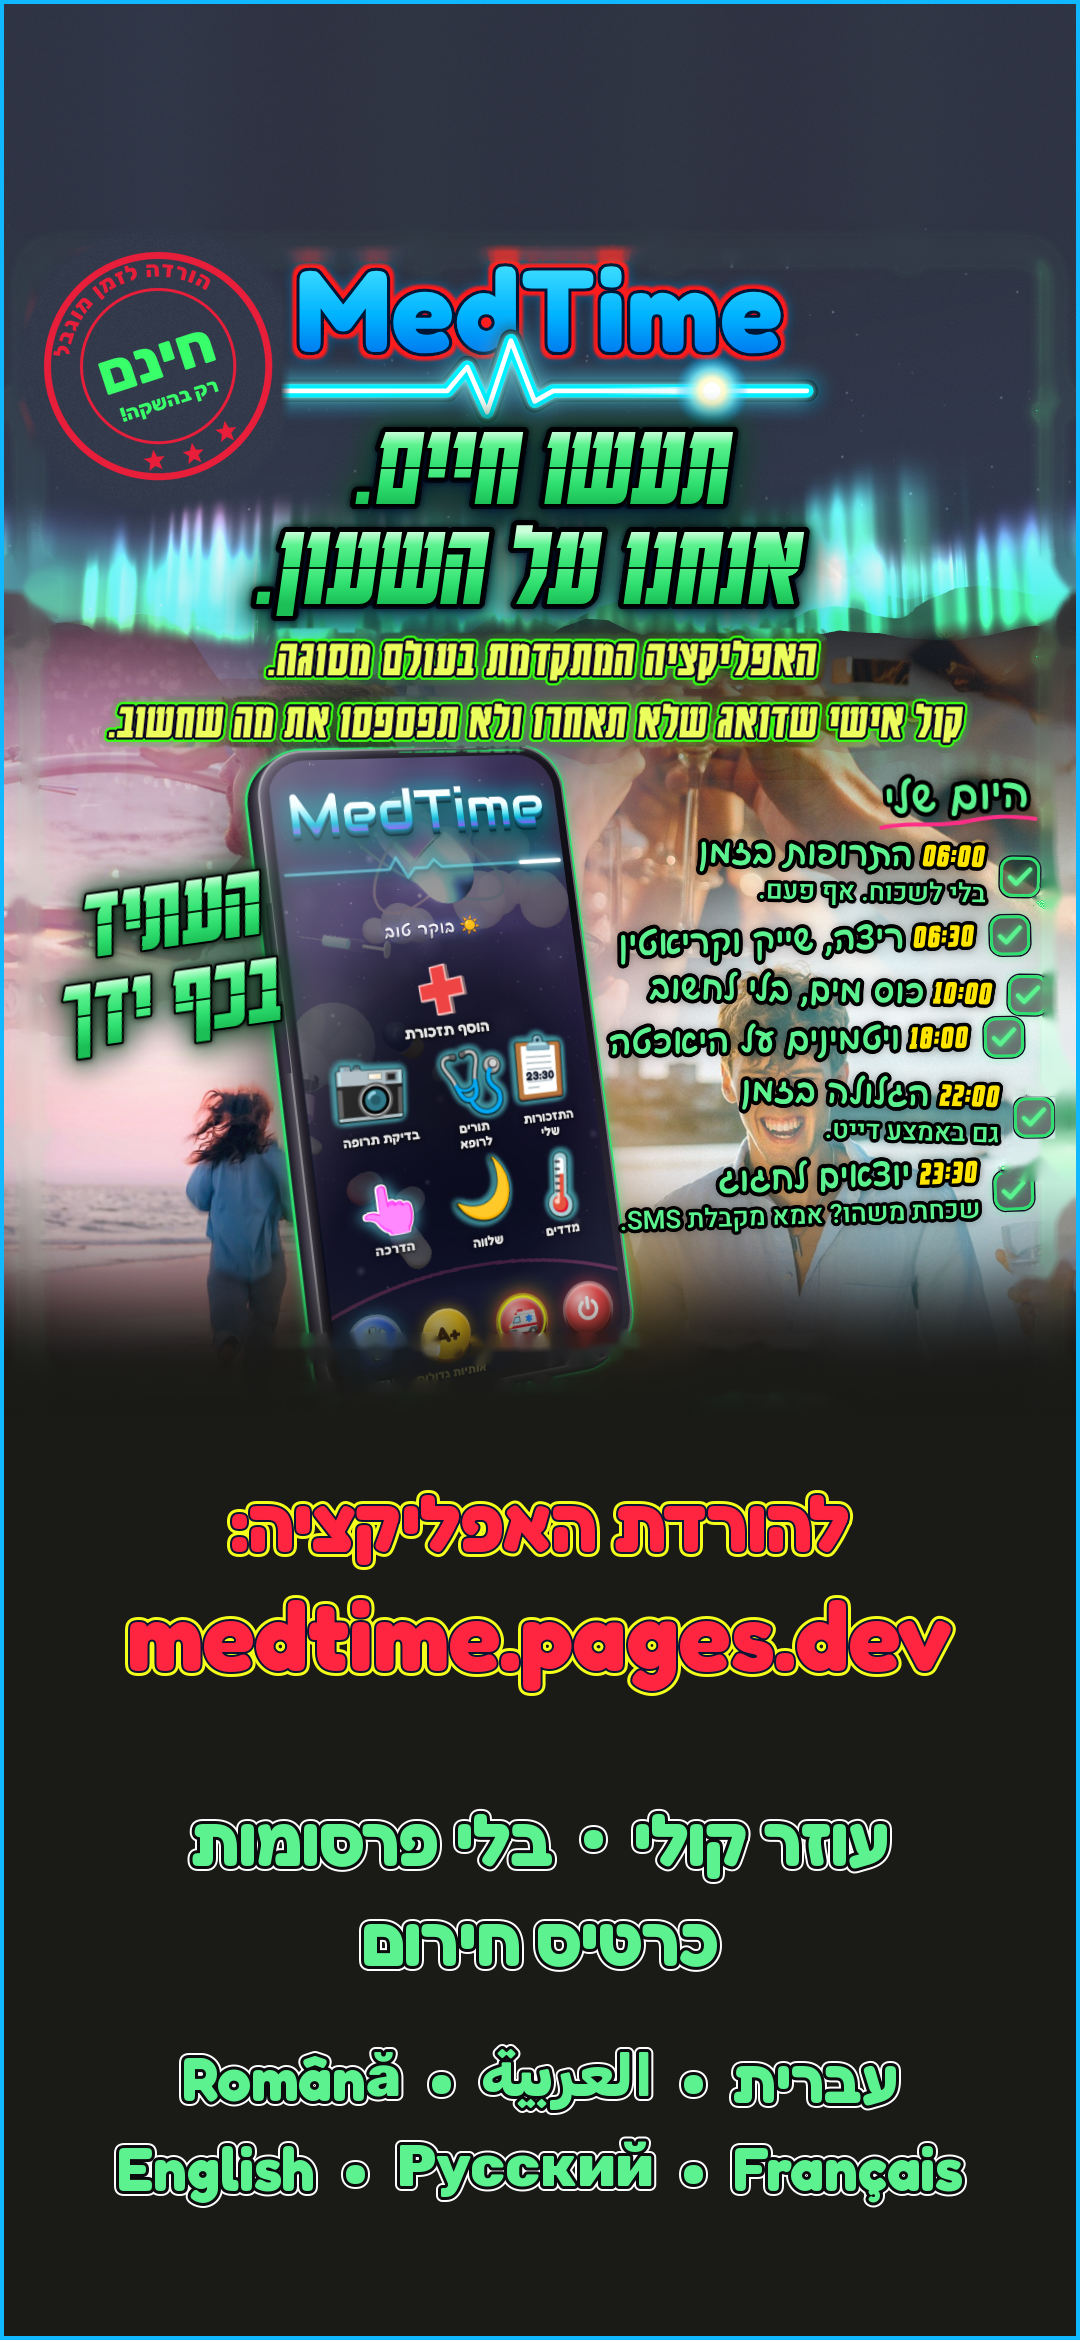
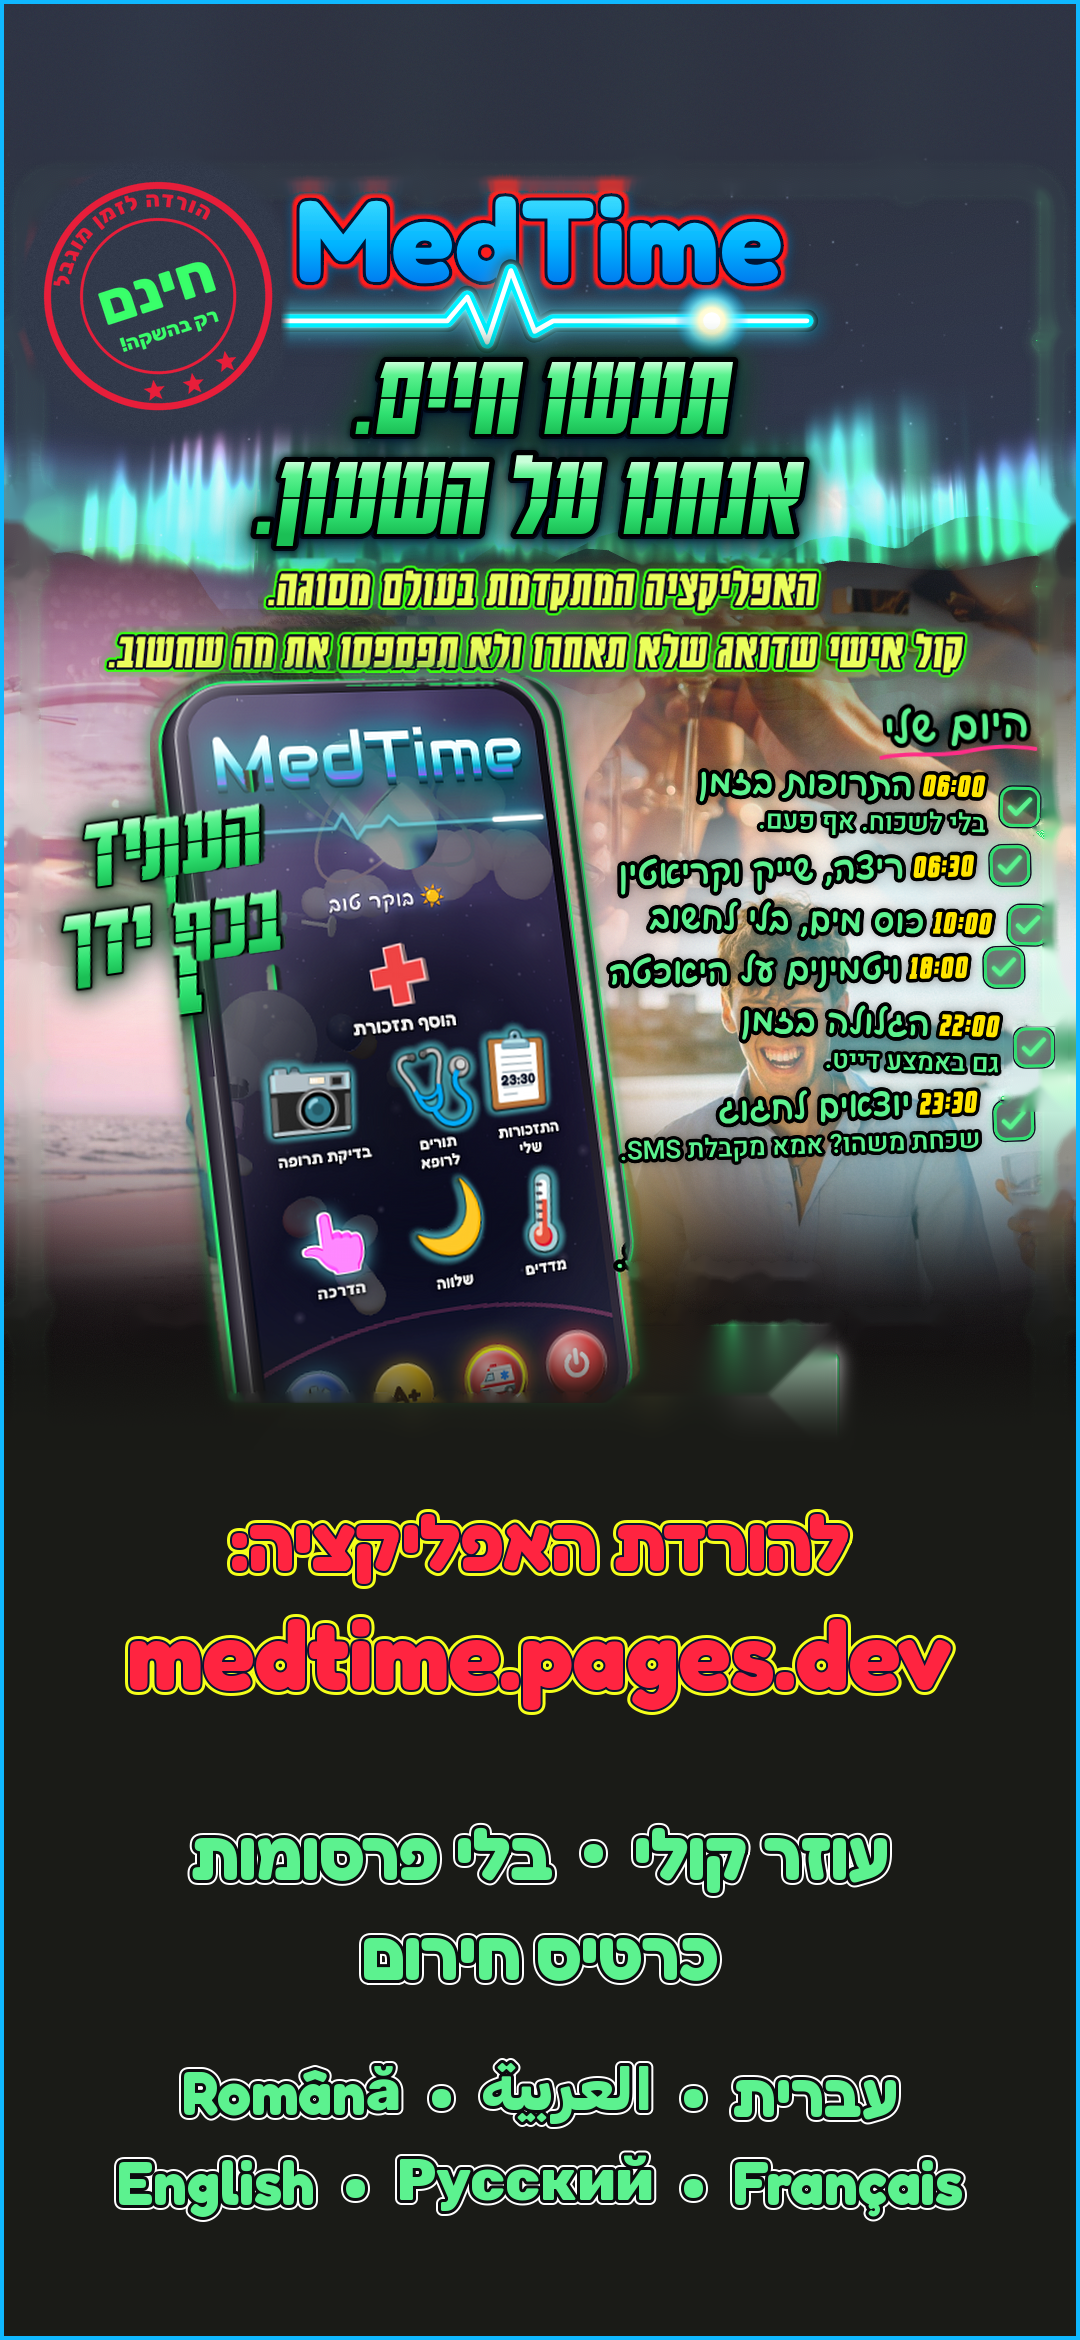
Ad tall round 4: bigger sharp phone, cleaned area, spread text [skip ci]
Claude-Session: https://claude.ai/code/session_01VsxPbo6X9KYMbXyBhgnXSS

diff --git a/media/ads/src/premium_fix10.py b/media/ads/src/premium_fix10.py
@@ -109,6 +109,11 @@ sixm = six & nd.binary_dilation(np.abs(a - [255, 213, 74]).sum(2) < 60, disk(8))
 clr = nd.binary_dilation(lang | dots | sixm | keep1, disk(2))
 img = inpaint(img, clr & ~frame)
 
+# tall base: the old address pill + QR of the round-1 image sit here; clear them (the fade goes lower there)
+if TALL:
+    rq = np.zeros((H, W), bool); rq[1176:1312, 236:836] = True
+    img = inpaint(img, rq)
+
 # ---- round 11: the two lines under the motto, bigger (same centres) ----
 cu = img.astype(int)
 for (ya, yb) in ((418, 462), (476, 524)):
@@ -160,10 +165,12 @@ rt = np.zeros((H, W), bool); rt[540:1030, 600:1075] = True
 rtf = rt & ((np.abs(r1 - [234, 255, 92]).sum(2) < 90) | (r1.min(2) > 200) | (np.abs(r1 - [255, 213, 74]).sum(2) < 90) | ((r1[..., 1] > 180) & (r1[..., 1] - r1[..., 0] > 60)))
 rtm = nd.binary_dilation(rtf, disk(3)) & rt
 rta = cv2.GaussianBlur(rtm.astype(np.float32), (3, 3), 0)
-PS = 1.0   # round 12: original size
+PS = float(os.environ.get('MT_PS', '1.0'))   # round 12: original size (the tall version passes a bigger value)
 ph_img = img[py0:py1, px0:px1].copy(); ph_a = pal[py0:py1, px0:px1]
 nwp, nhp = int((px1-px0)*PS), int((py1-py0)*PS)
-ph2 = cv2.resize(ph_img, (nwp, nhp), interpolation=cv2.INTER_CUBIC); pa2 = cv2.resize(ph_a, (nwp, nhp))
+ph2 = cv2.resize(ph_img, (nwp, nhp), interpolation=cv2.INTER_LANCZOS4)
+if PS > 1: ph2 = np.clip(ph2 + (ph2 - cv2.GaussianBlur(ph2, (0, 0), 1.0))*0.6, 0, 255)   # keep it sharp
+pa2 = cv2.resize(ph_a, (nwp, nhp))
 nx0, ny0 = px1 - nwp, py0
 sh = np.zeros((H, W), np.float32); sh[ny0:ny0+nhp, nx0:nx0+nwp] = pa2
 if PS != 1.0: img = img*(1 - 0.55*np.clip(cv2.GaussianBlur(sh, (0, 0), 10)*1.5, 0, 1))[..., None]      # soft shadow round the bigger phone
@@ -174,11 +181,11 @@ img = img*(1 - lta[..., None]) + ltimg*lta[..., None]
 img = img*(1 - rta[..., None]) + ltimg*rta[..., None]
 
 # clear 1 + fade (round 11): one calm dark colour at the bottom, reached smoothly from above
-X0, X1, Y0, Y1 = 4, 1076, 1200, 1346
+X0, X1, Y0, Y1 = 4, 1076, int(os.environ.get('MT_Y0', '1200')), 1346
 dark = np.median(img[1300:1340, 200:880].reshape(-1, 3), axis=0)
 fill = np.ones((Y1-Y0, X1-X0, 3), np.float32)*dark[None, None]
 img[Y0:Y1, X0:X1] = fill
-F0 = 1030
+F0 = int(os.environ.get('MT_F0', '1030'))
 tt_ = np.clip((np.arange(F0, Y0) - F0) / float(Y0 - F0), 0, 1); wv = (tt_*tt_*(3 - 2*tt_))[:, None, None]
 img[F0:Y0, X0:X1] = img[F0:Y0, X0:X1]*(1 - wv) + dark[None, None]*wv
 

diff --git a/media/ads/src/premium_tall2.py b/media/ads/src/premium_tall2.py
@@ -2,7 +2,8 @@
 # Base = the 4:5 ad built by premium_fix10.py with MT_TALL=1 (no download text, no bottom rows);
 # the space above is the top's plain dark; the big dark area below gets the download lines and the
 # bottom rows written again, much bigger, in the same colours and fonts. Nothing is stretched.
-# Run: MT_TALL=1 python3 premium_fix10.py ... base.png ; python3 premium_tall2.py base.png FONTDIR OUT.png
+# Round 4 (Roni 15:29): bigger phone (MT_PS=1.22, sharpened), its bottom fades lower (MT_F0/MT_Y0).
+# Run: MT_TALL=1 MT_PS=1.22 MT_F0=1150 MT_Y0=1300 python3 premium_fix10.py ... base.png ; python3 premium_tall2.py base.png FONTDIR OUT.png
 import sys, numpy as np, cv2
 from PIL import Image, ImageDraw, ImageFont
 src, fd, out = sys.argv[1:4]
@@ -10,8 +11,8 @@ ad = np.array(Image.open(src).convert('RGB')).astype(np.float32)
 W, H = 1080, 2340
 B = 5
 ad[:B] = ad[B:B+1]; ad[:, :B] = ad[:, B:B+1]; ad[:, -B:] = ad[:, -B-1:-B]
-CUT = 1196                                   # the base is used down to the start of its dark bottom
-TOP = 220
+CUT = 1300                                   # the base is used down to the start of its dark bottom
+TOP = 150
 canvas = np.zeros((H, W, 3), np.float32)
 top = np.repeat(cv2.GaussianBlur(ad[B:B+6].mean(0, keepdims=True), (0, 0), 40), TOP, 0)
 canvas[:TOP] = top + np.random.default_rng(1).normal(0, 1.2, top.shape).astype(np.float32)
@@ -43,7 +44,7 @@ lx = lambda s: F('rubik-latin-ext-800-normal', s)
 img = canvas
 # download (red fill, fluorescent-yellow edge, thin dark line)
 RED, YEL, NAVY = (255, 36, 64), (244, 255, 26), (10, 22, 52)
-y0 = TOP + CUT + 60
+y0 = TOP + CUT + 45
 img = paint(img, [(':', la(76), False), ('להורדת האפליקציה', he(76), True)], y0, RED, [(YEL, 5), (NAVY, 2)])
 img = paint(img, [('medtime.pages.dev', la(96), False)], y0 + 100, RED, [(YEL, 5), (NAVY, 2)])
 # bottom rows (green fill, dark edge, thin white ring), two lines each
@@ -53,7 +54,7 @@ dotg = (205, 170, 110)
 def row(img, segs, y):
     img = paint(img, segs, y, GRN, [(WHT, 5), (BLK, 3)])
     return img
-y1 = y0 + 320
+y1 = y0 + 315
 img = row(img, [('בלי פרסומות', he(70), True), dot, ('עוזר קולי', he(70), True)], y1)
 img = row(img, [('כרטיס חירום', he(70), True)], y1 + 100)
 img = row(img, [('Român', la(60), False), ('ă', lx(58), False), dot, ('العربية', ar(58), True), dot, ('עברית', he(62), True)], y1 + 245)

diff --git a/handoff/SYNC-LOG.md b/handoff/SYNC-LOG.md
@@ -7,6 +7,9 @@
 - מה: M-320..M-324 (פירוט ב-CHANGES.md): ברכה וצלב למעלה; פריסה שווה (3 בשורה, שורה קצרה ממורכזת); תור רופא: תווית קצרה על הסמל; חיסכון בסוללה (saver.js + WebView onPause/onResume + isPowerSave/batteryLevel/isCharging ב-NativeBridge); טיפ הגדרות בסוף ההגדרה הראשונית.
 - קומיטים: cc5f4ca (דף, עדכון מהיר), 36dcecb (Java, בנייה 223). להחזרה: git revert 36dcecb cc5f4ca.
 
+## 2026-10-23 ~15:55 · חשבון ראשי · אותה שיחה
+- מה: גרסה גבוהה סבב 4: טלפון גדול ×1.22 (Lanczos + חידוד), התחתית שלו נמוגה נמוך יותר; הוסרו שאריות הכפתור/ברקוד הישנים מאחוריו; הכיתובים למטה נפרסו מחדש. הרצה: MT_TALL=1 MT_PS=1.22 MT_F0=1150 MT_Y0=1300 premium_fix10.py (cdddeed→fix6 out, ddc63a0, fonts, base) ואז premium_tall2.py base fonts out. גרסת 4:5 לא השתנתה (נבדק: זהה).
+
 ## 2026-10-23 ~15:45 · חשבון ראשי · אותה שיחה
 - מה: הגרסה הגבוהה, סבב 3: 1080x2340 (9:19.5, רוב הטלפונים). בסיס = premium_fix10.py עם MT_TALL=1 (בלי כתובת ובלי שורות תחתונות); למעלה 220 רקע כהה; באזור הכהה למטה נכתבו מחדש בגדול: "להורדת האפליקציה:" + הכתובת (אדום, קו צהוב), "עוזר קולי • בלי פרסומות" / "כרטיס חירום", והשפות בשתי שורות (ירוק, קו כהה, טבעת לבנה דקה). סקריפט: media/ads/src/premium_tall2.py (מחליף את premium_tall.py). גרסת 4:5 לא השתנתה.
 
